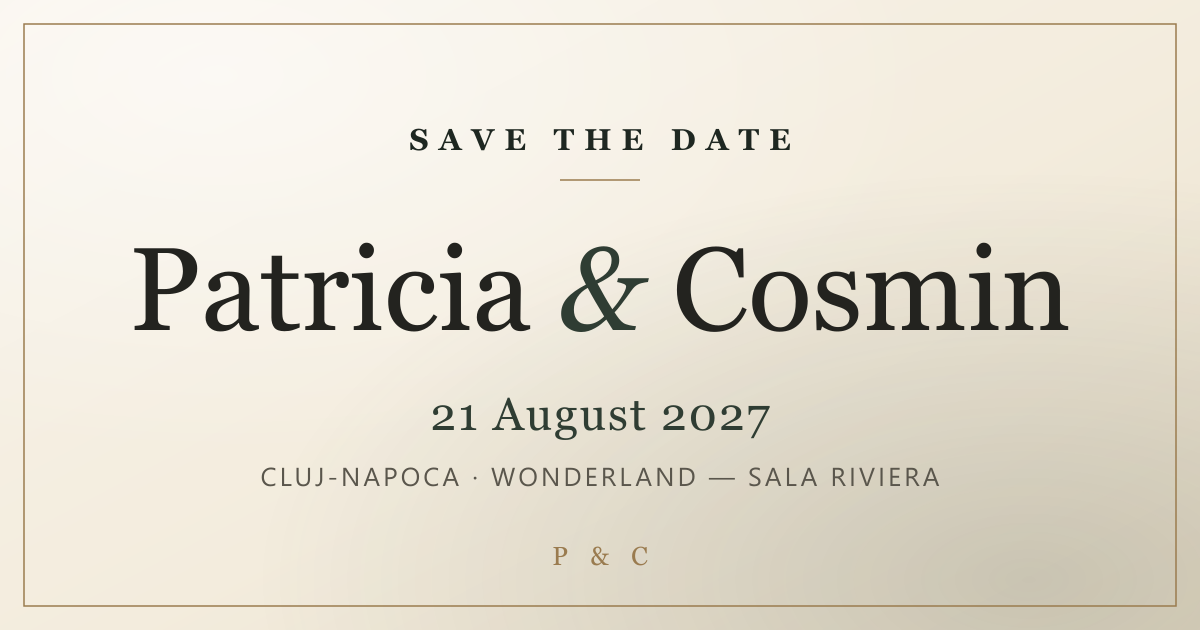
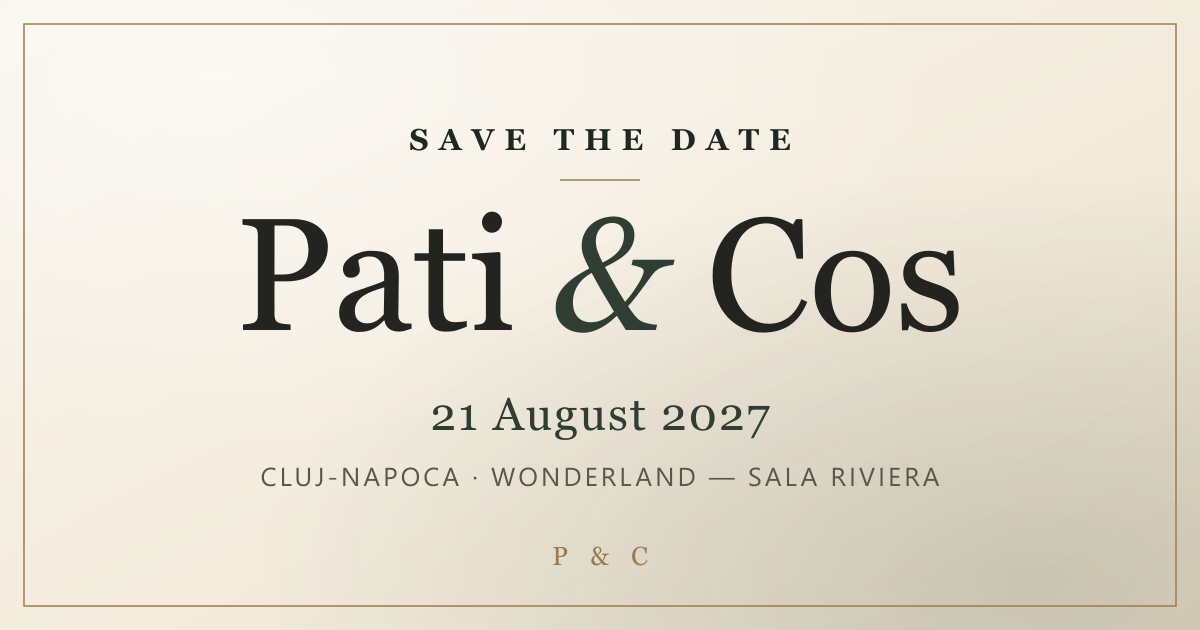
Rename the couple to "Pati & Cos" everywhere
Follows 829bc2b, which changed only the English hero names and left the
rest of the site — and all of the Romanian — on the full names.

Site copy in both languages: hero names, page title, meta description,
OG alt text, footer sign-off, and the header monogram's aria-label.
Structured data: the JSON-LD event name and og:site_name.

Regenerated the two derived assets, both of which bake the names in:
public/wedding.ics and public/og-image.png. The OG card's name type goes
118px -> 160px; "Pati & Cos" is ten characters where "Patricia & Cosmin"
was seventeen, and at the old size it sat undersized in the middle of the
card.

The Romanian calendar title was "Nunta Patriciei & a lui Cosmin". The
genitive does not survive the nicknames, so it is now "Nunta lui Pati &
Cos".

Docs follow: README, PLAN and the package description. The lowercase
"cosminlinca" GitHub handle in URLs is untouched — those are real
addresses.

Changed region(s): [[0.0925, 0.3317, 0.8942, 0.5429], [0.4008, 0.3317, 0.4317, 0.3619]]

diff --git a/PLAN.md b/PLAN.md
@@ -1,6 +1,6 @@
 # Wedding website — implementation plan
 
-**Couple:** Patricia & Cosmin · **Monogram:** P & C
+**Couple:** Pati & Cos · **Monogram:** P & C
 **Date:** 21 August 2027 · **Place:** Cluj-Napoca — Wonderland, Sala Riviera
 **Repo:** https://github.com/cosminlinca/pacos-wedding (public)
 **Live URL:** https://cosminlinca.github.io/pacos-wedding/
@@ -43,7 +43,7 @@ Single page, two languages, one screen of content plus a short second block:
 
 1. **Hero (full viewport)**
    - Eyebrow: `SAVE THE DATE` / `REZERVAȚI DATA`
-   - Names: `Patricia & Cosmin`
+   - Names: `Pati & Cos`
    - Date: `21 August 2027` / `21 august 2027`
    - Place: `Cluj-Napoca · Wonderland — Sala Riviera`
    - Live **countdown** (days / hours / minutes / seconds), localised labels
@@ -147,7 +147,7 @@ export default defineConfig({
 
 ### i18n approach
 
-- Copy lives in `src/i18n/ro.json` and `src/i18n/en.json` — flat keys, no logic. Cosmin/Patricia edit these directly on GitHub.
+- Copy lives in `src/i18n/ro.json` and `src/i18n/en.json` — flat keys, no logic. Cos/Pati edit these directly on GitHub.
 - `src/lib/i18n.ts`: `getStrings(locale)`, `getLocaleFromUrl(url)`, `switchLocalePath(url, target)`.
 - Two routes only: `src/pages/index.astro` (ro), `src/pages/en/index.astro` (en). Both render the same components with a `locale` + `t` prop.
 - `<html lang>` set per route. `hreflang` alternates (`ro`, `en`, `x-default` → ro) in `<head>`.
@@ -175,7 +175,7 @@ export default defineConfig({
 
 ### SEO / meta / sharing
 
-- `<title>`: `Patricia & Cosmin — 21 August 2027, Cluj-Napoca` (localised).
+- `<title>`: `Pati & Cos — 21 August 2027, Cluj-Napoca` (localised).
 - Meta description, `og:title/description/type/url/locale` (+ `og:locale:alternate`), Twitter card.
 - **OG image:** hand-made 1200×630 PNG (names + date + monogram on ivory) in `public/`. Static for the teaser; can move to generated later.
 - `favicon.svg` — P&C monogram, ivory/green.
@@ -264,7 +264,7 @@ Rough effort: ~1 focused day.
 
 **Romanian (`/`)**
 - Eyebrow: `REZERVAȚI DATA`
-- Names: `Patricia & Cosmin`
+- Names: `Pati & Cos`
 - Date: `21 august 2027`
 - Place: `Cluj-Napoca · Wonderland — Sala Riviera`
 - Countdown labels: `zile · ore · minute · secunde`
@@ -276,7 +276,7 @@ Rough effort: ~1 focused day.
 
 **English (`/en/`)**
 - Eyebrow: `SAVE THE DATE`
-- Names: `Patricia & Cosmin`
+- Names: `Pati & Cos`
 - Date: `21 August 2027`
 - Place: `Cluj-Napoca · Wonderland — Sala Riviera`
 - Countdown labels: `days · hours · minutes · seconds`
@@ -288,7 +288,7 @@ Rough effort: ~1 focused day.
 
 ---
 
-## 9. Needed from Cosmin & Patricia later (not blocking the teaser)
+## 9. Needed from Cos & Pati later (not blocking the teaser)
 
 - Confirm exact venue label (`Wonderland` vs `Wonderland Resort`; hall name spelling).
 - Engagement photos (I'll give aspect-ratio + resolution guidance; hero wants a wide 3:2 or 16:9).

diff --git a/README.md b/README.md
@@ -1,6 +1,6 @@
 # pacos-wedding
 
-Teaser (save-the-date) site for **Patricia & Cosmin** — 21 August 2027, Cluj-Napoca
+Teaser (save-the-date) site for **Pati & Cos** — 21 August 2027, Cluj-Napoca
 (Wonderland, Sala Riviera).
 
 - **Live:** https://cosminlinca.github.io/pacos-wedding/ (RO) · `/en/` (EN)
